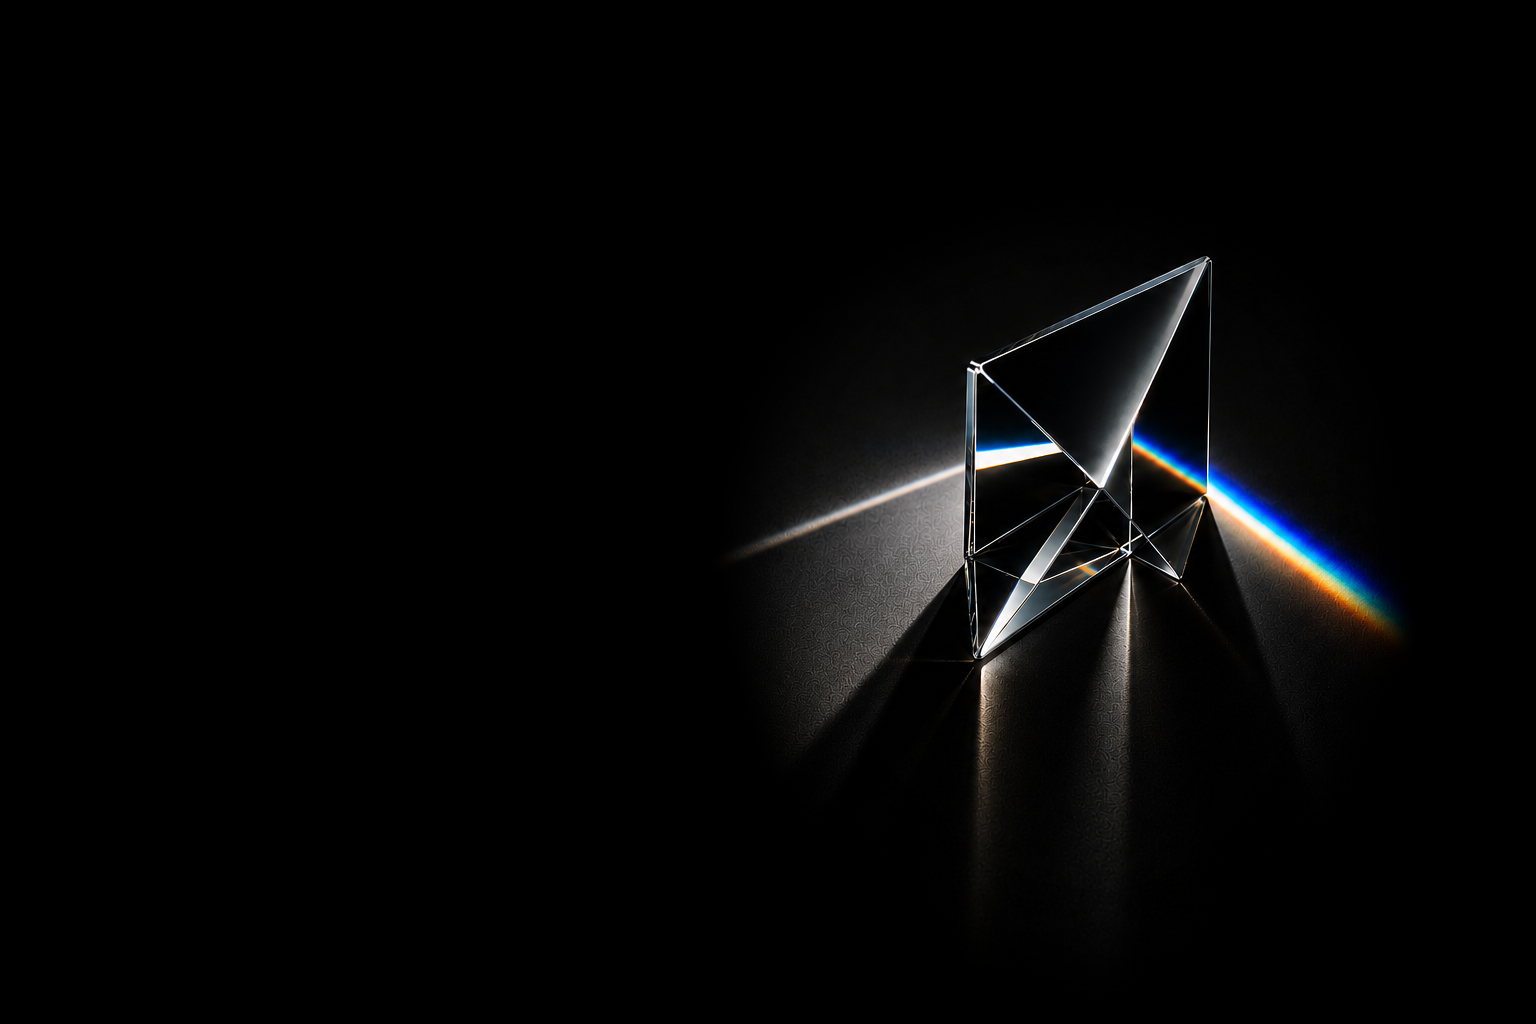
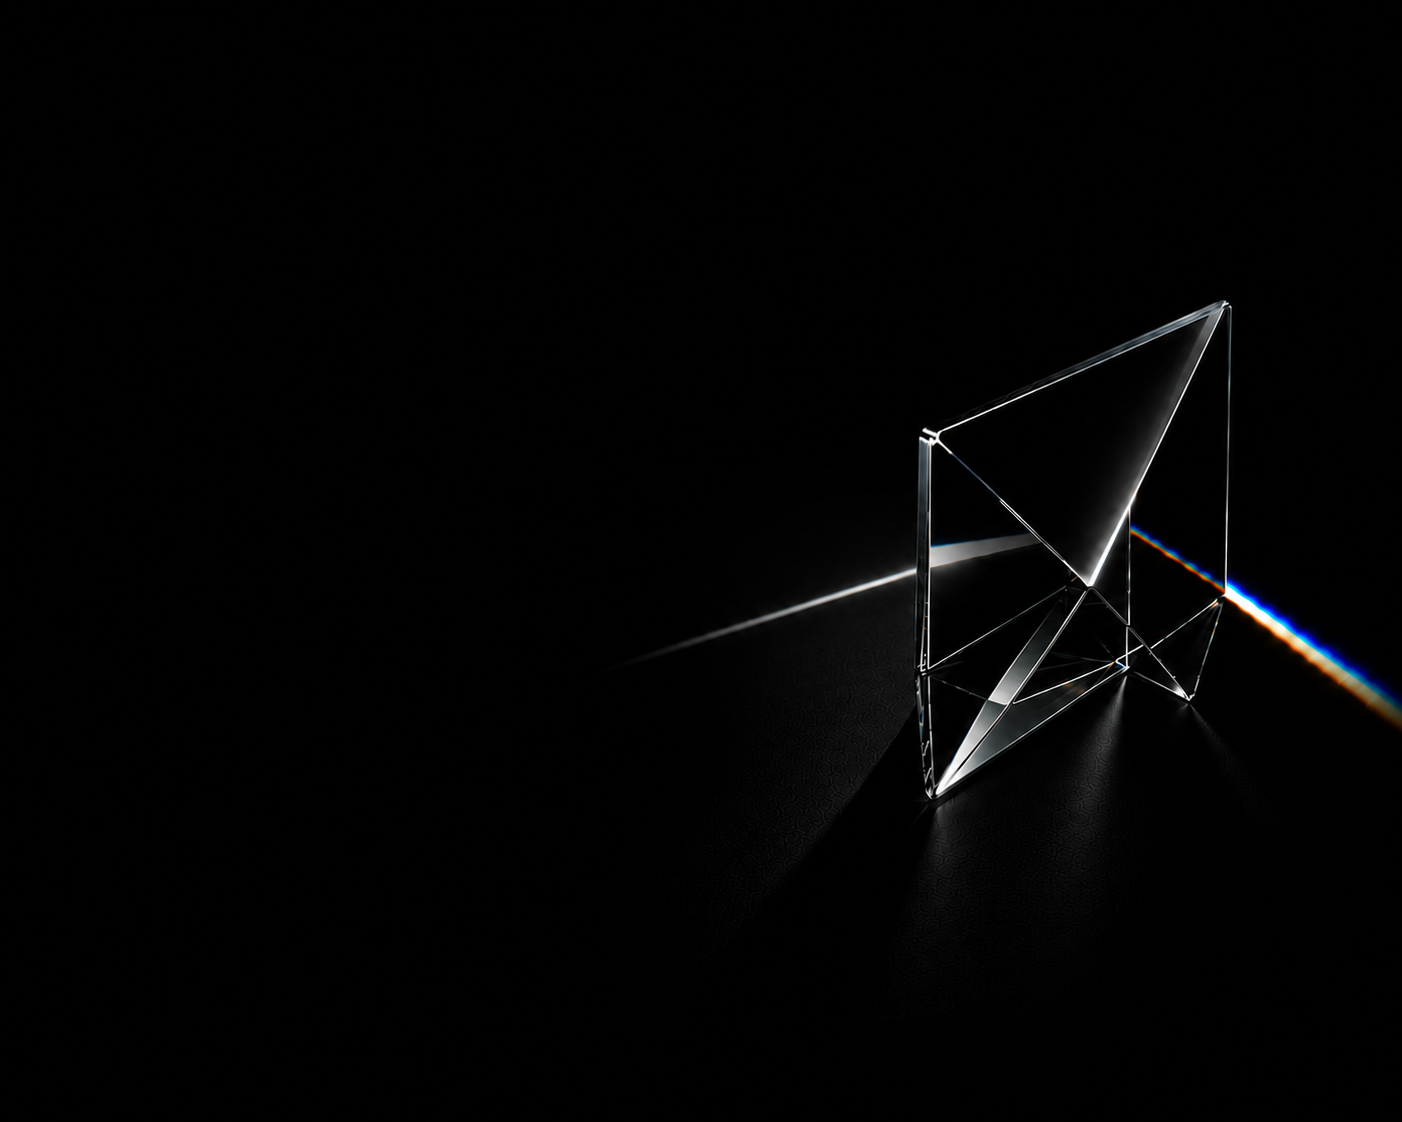
Hero: new Landing background; desktop H1 +15% two-line; mobile stacked prism
Desktop: swap to the Landing background (full-bleed, right-weighted, cover);
H1 +15% with proportional line-height and a wider copy column so it sets on
two lines ("See if your supplements" / "are working.") with a gutter to the
prism; more vertical spacing between H1, subhead and form.
Mobile: own treatment — copy stacks above an uncropped prism image (never
over the prism/light path); H1 size and wrapping independent of desktop;
form stacks vertically.

Changed region(s): [[0.4907, 0.25, 1.0, 0.8125], [0.6441, 0.3125, 0.7054, 0.3438]]

diff --git a/app/sections/Hero.js b/app/sections/Hero.js
@@ -5,20 +5,17 @@ import Link from "next/link";
 import { GRID } from "./system";
 
 /*
- * Panel 1 — HERO. The prism artwork is a FULL-BLEED background layer that
- * spans the whole section (its own wide composition: dark negative space on
- * the left, prism on the right). The logo, headline, supporting copy and
- * waitlist form are real HTML overlaid ABOVE the image — the copy sits over
- * the image's natural dark left through a constrained content width, not a
- * separate black panel or a two-column split.
- *
- * The artwork is a TEMPORARY placeholder (derived from the mock). Swap it by
- * changing HERO_ART_SRC only — the full-bleed layout, object-fit and
- * object-position are production-ready and don't depend on its exact size.
+ * Panel 1 — HERO.
+ * Desktop: the "Landing background" prism artwork is a full-bleed, right-
+ * weighted background (object-fit: cover) with the copy overlaid on the dark
+ * left. Headline sets on two lines with a gutter to the prism.
+ * Mobile: its own treatment — the copy stacks ABOVE an uncropped prism image
+ * (never over the prism or its light path). H1 size and wrapping are set
+ * independently from desktop.
  */
 
 const ACCENT = "var(--prism-accent)";
-const HERO_ART_SRC = "/hero/prism-hero.png"; // swap for the final wide artwork
+const HERO_ART_SRC = "/hero/prism-hero.png"; // Landing background (desktop full-bleed)
 
 export default function Hero() {
   const [email, setEmail] = useState("");
@@ -42,8 +39,7 @@ export default function Hero() {
 
   return (
     <section id="hero" className="relative min-h-screen overflow-hidden bg-black text-white">
-      {/* DESKTOP: full-bleed background artwork — reaches every edge, prism on
-          the right, dark negative space behind the copy. */}
+      {/* DESKTOP: full-bleed, right-weighted background artwork. */}
       <div className="absolute inset-0 z-0 max-md:hidden">
         <Image
           src={HERO_ART_SRC}
@@ -53,30 +49,6 @@ export default function Hero() {
           sizes="100vw"
           className="object-cover object-center"
         />
-      </div>
-
-      {/* MOBILE: the prism as a DISTINCT object on the right (black canvas on
-          the left for the copy — no overlap). Hidden on desktop. */}
-      <div className="pointer-events-none absolute inset-y-0 right-0 z-0 flex w-[43%] items-center md:hidden">
-        <Image
-          src="/hero/prism-mobile.png"
-          alt=""
-          width={600}
-          height={660}
-          priority
-          sizes="43vw"
-          className="h-auto w-full"
-          style={{
-            WebkitMaskImage:
-              "radial-gradient(112% 82% at 64% 48%, #000 30%, transparent 74%)",
-            maskImage:
-              "radial-gradient(112% 82% at 64% 48%, #000 30%, transparent 74%)",
-          }}
-        />
-        {/* Strong, rapid fade on the LEFT so there is no hard vertical edge —
-            the prism blends into the black background. Top/bottom/right are
-            handled by the image mask above and left unchanged. */}
-        <div className="absolute inset-0 bg-[linear-gradient(to_right,#000_0%,#000_15%,transparent_46%)]" />
       </div>
 
       {/* Header — logo only, no navigation. */}
@@ -91,34 +63,34 @@ export default function Hero() {
         </div>
       </header>
 
-      {/* Content — on the LEFT. Mobile is constrained so it never overlaps the
-          right-side prism; desktop keeps its content width over the artwork. */}
-      <div className={`${GRID} relative z-10 flex min-h-screen items-center`}>
-        <div className="w-full max-w-xl py-28 md:py-24">
-          {/* Headline spans the full mobile width (hero title authority);
-              desktop size restored via md:. */}
-          <h1 className="fade-rise font-accent leading-[1.08] tracking-[-0.01em] text-white text-[clamp(2.4rem,6.4vw,2.9rem)] md:text-[clamp(2.5rem,5.6vw,4.6rem)] md:leading-[1.06]">
+      {/* Layout: desktop = copy overlaid on the left, vertically centred;
+          mobile = copy stacked ABOVE the prism image. */}
+      <div
+        className={`${GRID} relative z-10 flex min-h-screen flex-col justify-center py-28 md:flex-row md:items-center md:py-24`}
+      >
+        {/* Copy column. Wider on desktop so the headline sets on two lines
+            ("See if your supplements" / "are working.") with a gutter to the
+            prism; the subhead and form keep their own widths. */}
+        <div className="w-full max-w-xl md:max-w-[48rem]">
+          <h1 className="fade-rise font-accent leading-[1.08] tracking-[-0.01em] text-white text-[clamp(2.4rem,6.4vw,2.9rem)] md:text-[clamp(2.9rem,6.4vw,5.3rem)] md:leading-[1.06]">
             See if your supplements are{" "}
             <span style={{ color: ACCENT }}>working</span>.
           </h1>
 
-          {/* Copy + form stay in a narrower column on mobile so they don't
-              overlap the prism; desktop keeps them within the content width. */}
-          <div className="max-md:max-w-[58%]">
-          {/* Widened so the subhead sets on two lines, breaking naturally
-              after the comma. Mobile stays constrained by the wrapper above. */}
-          <p className="mt-6 max-w-[33rem] text-[clamp(1.05rem,1.4vw,1.2rem)] leading-relaxed text-white/60">
+          <p className="mt-7 max-w-[33rem] text-[clamp(1.05rem,1.4vw,1.2rem)] leading-relaxed text-white/60 md:mt-10">
             Prism shows how supplements affect your health,{" "}
             <br className="max-md:hidden" />
             so you can keep what works and change what doesn&rsquo;t.
           </p>
 
           {status === "success" ? (
-            <p className="mt-9 text-lg text-white/90">You&rsquo;re on the list.</p>
+            <p className="mt-10 text-lg text-white/90 md:mt-12">
+              You&rsquo;re on the list.
+            </p>
           ) : (
             <form
               onSubmit={onSubmit}
-              className="mt-9 flex w-full max-w-md flex-col gap-2.5 sm:flex-row"
+              className="mt-10 flex w-full max-w-md flex-col gap-2.5 sm:flex-row md:mt-12"
             >
               <label htmlFor="hero-email" className="sr-only">
                 Email address
@@ -152,7 +124,19 @@ export default function Hero() {
           <p className="mt-7 text-[13px] text-white/50">
             We&rsquo;ll email you once when Prism launches.
           </p>
-          </div>
+        </div>
+
+        {/* MOBILE: uncropped prism stacked below the copy (never behind it). */}
+        <div className="mt-12 w-full md:hidden">
+          <Image
+            src="/hero/prism-mobile.png"
+            alt=""
+            width={560}
+            height={700}
+            priority
+            sizes="(max-width: 768px) 86vw, 0px"
+            className="mx-auto h-auto w-[86%] max-w-[21rem]"
+          />
         </div>
       </div>
     </section>